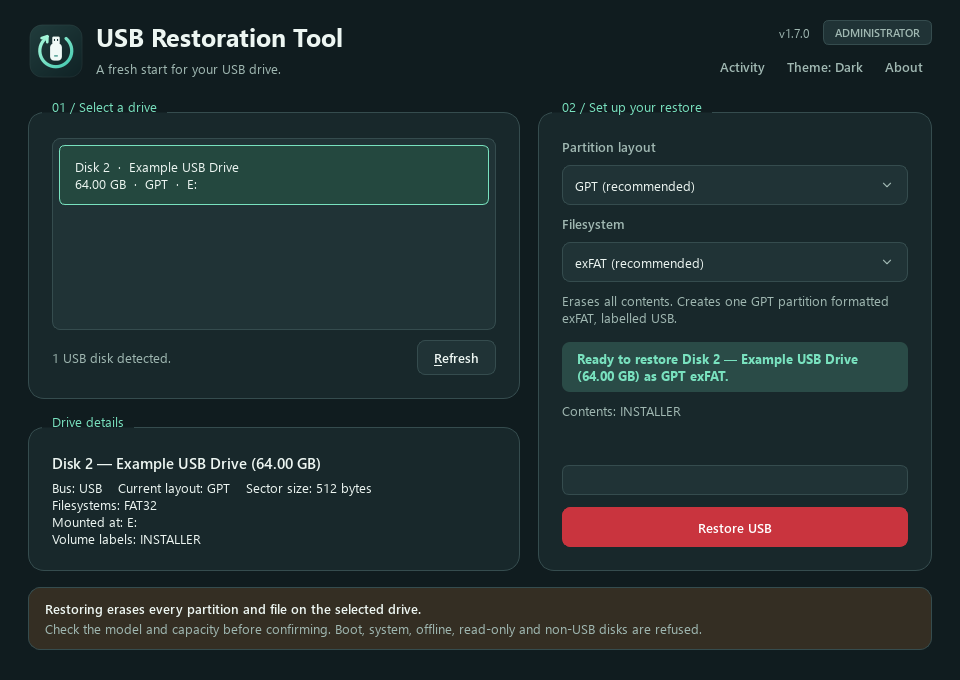
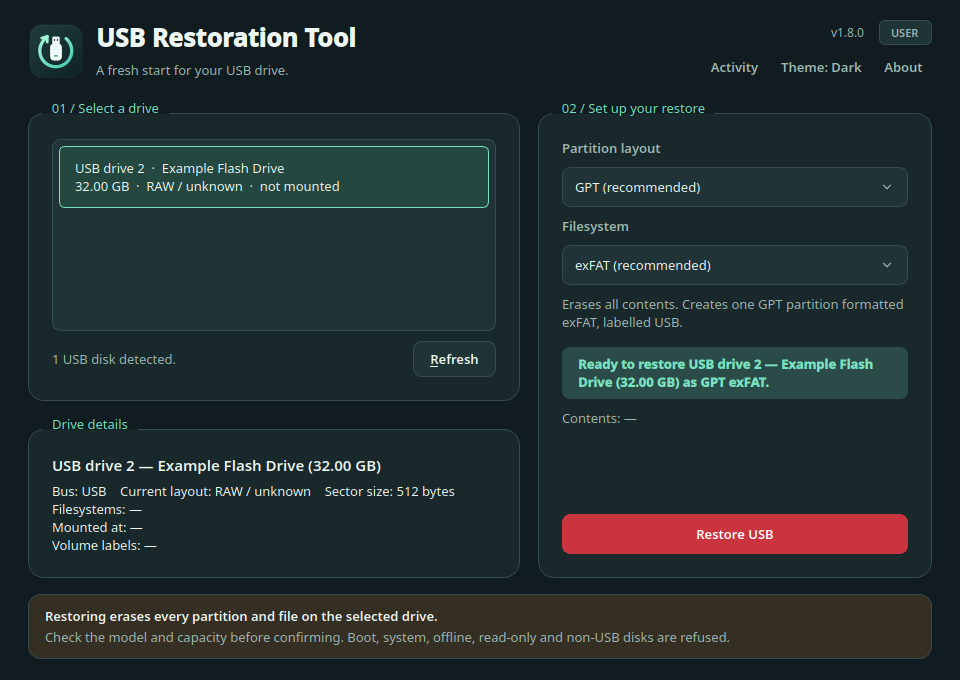
docs: refresh screenshots and reconcile release notes
The README images now come from a main-window snapshot test that clears saved settings, so they show 1.8.0, the GPT default and the current interface. AGENTS.md, the helper protocol example and the branding notes match the present code.

diff --git a/tests/test_gui.cpp b/tests/test_gui.cpp
@@ -669,6 +669,34 @@ class GuiTests : public QObject {
         dialog.finishCancelled(QStringLiteral("Preview ended"));
     }
 
+    void rendersTheMainWindow_data()
+    {
+        QTest::addColumn<bool>("dark");
+        QTest::newRow("light") << false;
+        QTest::newRow("dark") << true;
+    }
+
+    // Saves the README's interface preview: USBRESTORE_GUI_SNAPSHOTS=docs/images.
+    void rendersTheMainWindow()
+    {
+        QFETCH(bool, dark);
+        // Earlier tests save their own selection; the preview must show first-run defaults.
+        QSettings(QStringLiteral("KaroqDave"), QStringLiteral("USB Restoration Tool")).clear();
+        applyTheme(*qApp, dark ? Theme::Dark : Theme::Light);
+        ExampleService service;
+        MainWindow window(service, dark ? Theme::Dark : Theme::Light);
+        window.show();
+        QTest::qWait(80);
+
+        const QString output = qEnvironmentVariable("USBRESTORE_GUI_SNAPSHOTS");
+        if (!output.isEmpty()) {
+            QVERIFY(QDir().mkpath(output));
+            QVERIFY(
+                window.grab().save(QDir(output).filePath(QStringLiteral("app-%1.png").arg(dark ? "dark" : "light"))));
+        }
+        window.close();
+    }
+
     void describesTheReleaseAndProjectVersion_data()
     {
         QTest::addColumn<bool>("dark");

diff --git a/docs/TODO.md b/docs/TODO.md
@@ -2,17 +2,9 @@
 
 ## Next
 
-### Tomorrow
+### Release preparation
 
-1. Add native Fedora packaging (`.rpm`), including dependencies, the privileged
-   helper and polkit policy. Add CI/release integration and check installation,
-   upgrade and removal.
-
-2. Finish release cleanup: remove obsolete UI/code, update documentation and
-   screenshots, revise the previous Debian/AppImage-only packaging guidance,
-   and check build scripts, workflows and release notes for consistency.
-
-3. Perform the final pre-release review across Fedora RPM, Debian, AppImage and
+1. Perform the final pre-release review across Fedora RPM, Debian, AppImage and
    Windows builds. Require passing tests and packaging/startup checks, verify
    versions and checksums, and record any remaining validation limits before
    approving a release. Use only disposable media for manual restore checks.
@@ -23,6 +15,15 @@
   now recorded in the application log.
 
 ## Recently completed
+
+- 2026-10-30: Finished the release cleanup. Removed the unused
+  `restoredLocationNoun()` from `DiskService` and both backends. The README
+  screenshots now come from a new `rendersTheMainWindow` GUI test that writes
+  `app-light.png` and `app-dark.png` with first-run settings, so they show 1.8.0,
+  GPT default and the current interface. Updated `AGENTS.md` for the restore
+  dialog and the AppImage probe, the helper protocol example, and the screenshot
+  instructions. Linux build and all four ctest suites pass at 100% and 200%
+  scaling. No physical drive accessed.
 
 - 2026-10-30: Fixed the local AppImage startup crash by rebuilding with upstream
   patchelf commit `3e996db`; linuxdeploy's bundled version moved Qt plugin code

diff --git a/AGENTS.md b/AGENTS.md
@@ -26,14 +26,16 @@ NTFS, or (on Linux) ext4. Source lives in `src/`:
 - `src/helper/` — `main.cpp` for `usb-restoration-helper`, the Linux-only
   privileged binary. Qt Core only, no widgets, and nothing it is told is
   trusted. See `docs/polkit-helper.md`.
-- `src/gui/` — `main.cpp`, `main_window.*`, `theme.*`, `app_settings.*`.
+- `src/gui/` — `main.cpp`, `main_window.*`, `restore_dialog.*` (confirmation,
+  progress and result in one window), `theme.*`, `app_settings.*`.
 
 Tests live in `tests/test_gui.cpp` (offscreen widgets and an example disk service),
 `tests/test_core.cpp` (`src/core`), `tests/test_wmi.cpp` (Windows WMI
 encoding and job monitoring) and `tests/test_linux.cpp` (Linux formatter mappings and
 partition re-reads on loop images); `tests/fuzz_core.cpp` fuzzes the parsers and
 partition tables and replays `tests/fuzz-corpus`. `tools/partition_dump.cpp` backs
-`scripts/verify-partition-tables.sh`. Docs beyond the README go in `docs/`.
+`scripts/verify-partition-tables.sh`, and `tools/qt_bundle_probe.cpp` checks that a
+built AppImage's bundled Qt plugins still load. Docs beyond the README go in `docs/`.
 Build and project guidance lives in `docs/development.md`; open tasks live in `docs/TODO.md`.
 
 ## Build, Test, and Development Commands

diff --git a/docs/polkit-helper.md b/docs/polkit-helper.md
@@ -55,7 +55,7 @@ partition table is reread; the mapping is flushed and detached first. See [SECUR
 The GUI probes `--protocol-version` before authentication. The helper also emits
 a version line when it starts a restore. The line names the protocol version,
 the helper's application version, its step count and its first destructive
-step, for example `version 4 app 1.7.2 steps 10 destructive 5`. The GUI numbers
+step, for example `version 4 app 1.8.0 steps 10 destructive 5`. The GUI numbers
 the helper's steps and decides when unplugging is still safe from its own copy
 of the plan, so it rejects a different protocol or plan, naming both
 application versions. If the mismatch is detected during the run, the GUI sends

diff --git a/README.md b/README.md
@@ -130,6 +130,9 @@ application data when that directory is not writable.
   clears signatures in larger writes without changing the erased range.
 - Linux and Windows drive errors explain the failed operation and what to try
   next. The log now records setup, step and total restore durations.
+- The About dialog covers the one-window restore flow and the published
+  packages. Closing the window during a restore explains that the disk is
+  unchanged until writing starts.
 - A native Fedora RPM installs the unprivileged app, restore helper and polkit
   policy, with dependencies on the system Qt and all four formatters.
 - AppImage packaging checks bundled Qt platform and SVG loading to catch a

diff --git a/docs/branding.md b/docs/branding.md
@@ -12,7 +12,8 @@ stays descriptive; the tagline is **A fresh start for your USB drive.**
 - [readme-banner.svg](../resources/branding/readme-banner.svg) is the editable
   project banner; the README uses its PNG export for consistent text rendering.
 - `docs/images/app-light.png` and `app-dark.png` show the actual widgets with an
-  example drive, rather than a physical device.
+  example drive, rather than a physical device. `usb-gui-tests` writes them; see
+  [Development](development.md#test).
 
 Use the same icon for the executable, taskbar, Linux launcher, header and About
 dialog. Do not stretch it or put text inside the tile.

diff --git a/docs/development.md b/docs/development.md
@@ -57,6 +57,15 @@ errors. To save previews on Linux:
 USBRESTORE_GUI_SNAPSHOTS=build-linux/ui-previews ./build-linux/usb-gui-tests rendersBothPlansAndThemes -platform offscreen
 ```
 
+The README's interface previews come from the same test binary:
+
+```bash
+USBRESTORE_GUI_SNAPSHOTS=docs/images ./build-linux/usb-gui-tests rendersTheMainWindow -platform offscreen
+```
+
+That writes `app-light.png` and `app-dark.png` with first-run settings. Review
+both, and regenerate them whenever the main window changes.
+
 Set `QT_SCALE_FACTOR=2` to check 200% scaling.
 
 Linux also checks partition tables with `sgdisk` and `fdisk`:

diff --git a/CHANGELOG.md b/CHANGELOG.md
@@ -39,6 +39,12 @@ clearer drive errors.
 - Linux and Windows drive failures name the operation and provide next steps,
   while retaining OS error details. Formatter failures preserve their output
   without assuming that the drive is damaged.
+- The About dialog describes the single restore window, the filesystem choices
+  and the Windows, Debian, Fedora and AppImage builds, with the version taken
+  from the project version.
+- Closing the main window during a restore now says the disk is unchanged until
+  writing starts, and the explanation appears on the restore dialog rather than
+  behind it.
 
 ### Fixed
 
